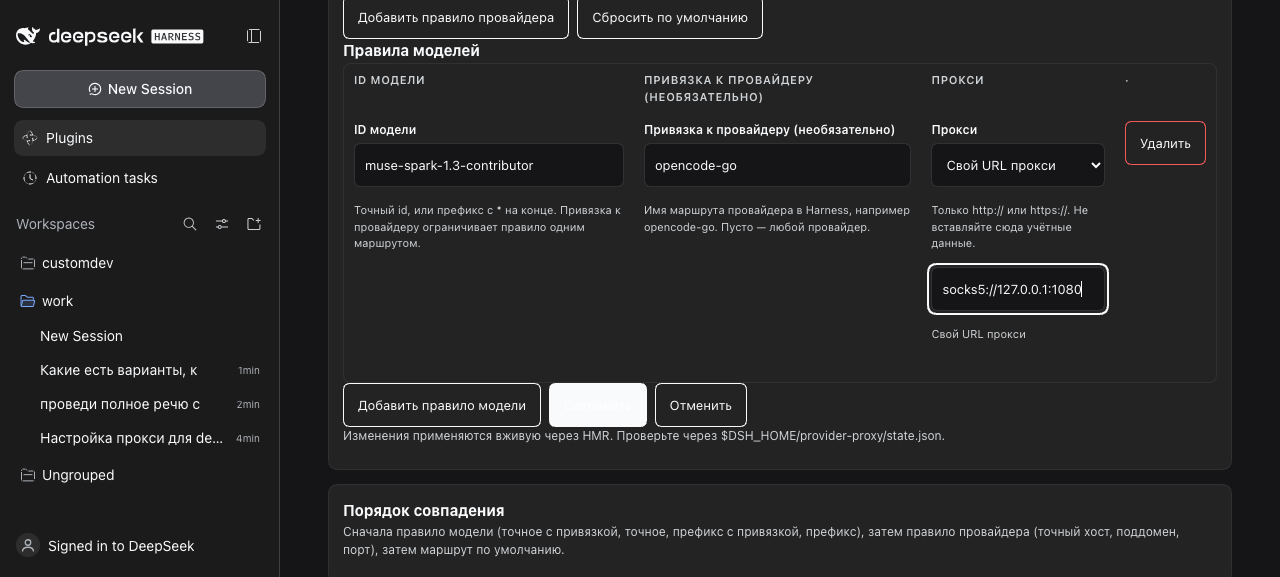
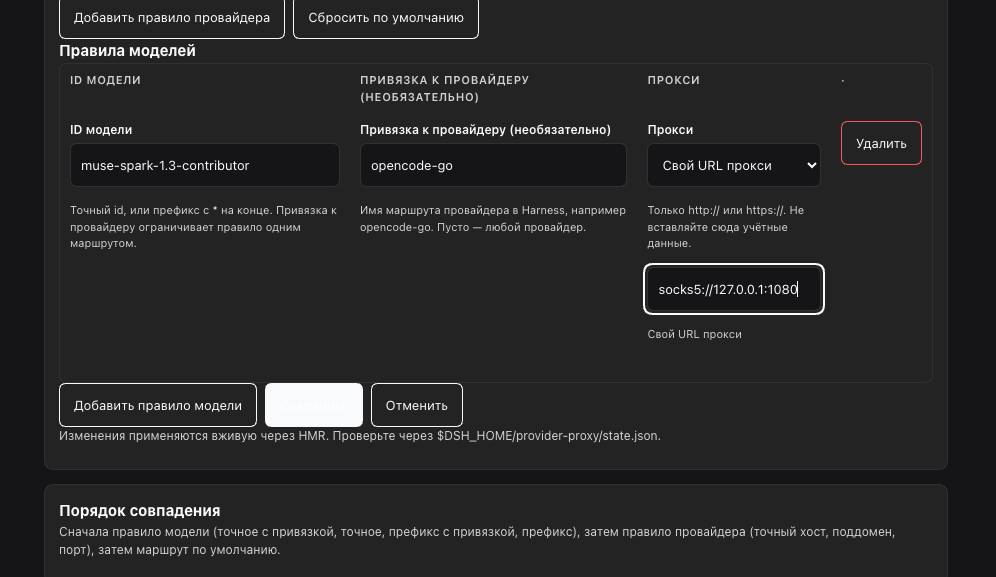
Privacy: crop session sidebar out of published screenshots; rebuild GIF; show providers rule in UI docs

diff --git a/docs/proxy-ui.md b/docs/proxy-ui.md
@@ -2,6 +2,8 @@
 
 Open **Plugins** in the sidebar → open the **dsh-provider-proxy** bundle → **Configure**. The page edits the Host entry `provider-proxy` through the shared settings form.
 
+![Proxy routes page: default route, provider rule, and model rule](../assets/screenshots/proxy-page-providers.png)
+
 ## What you see
 
 - A summary line: rule counts and the default route.
